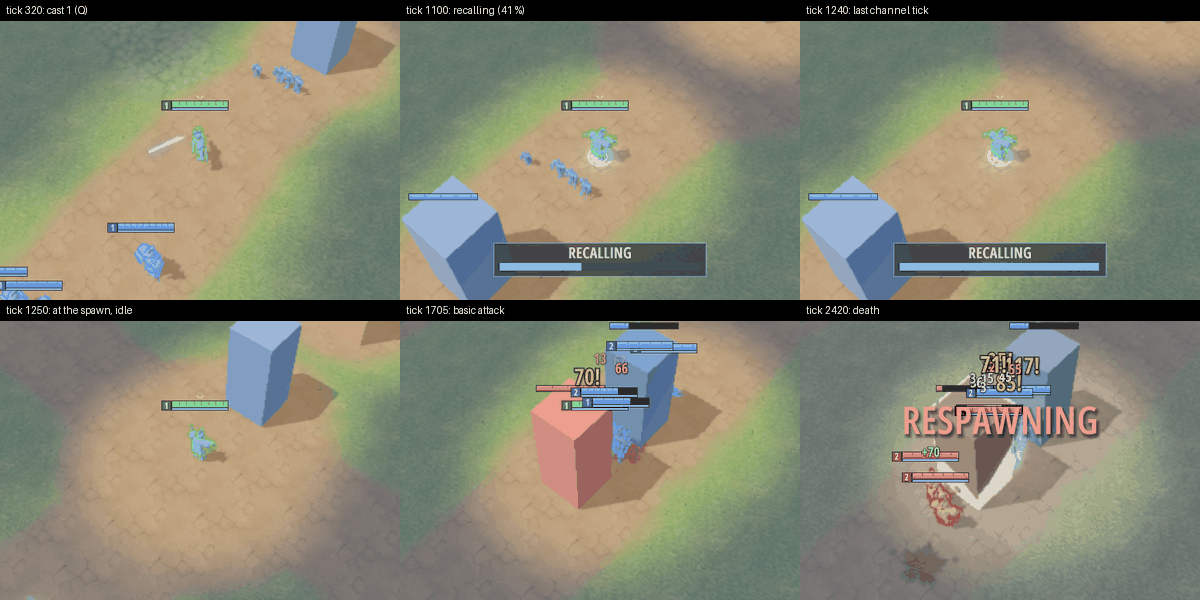
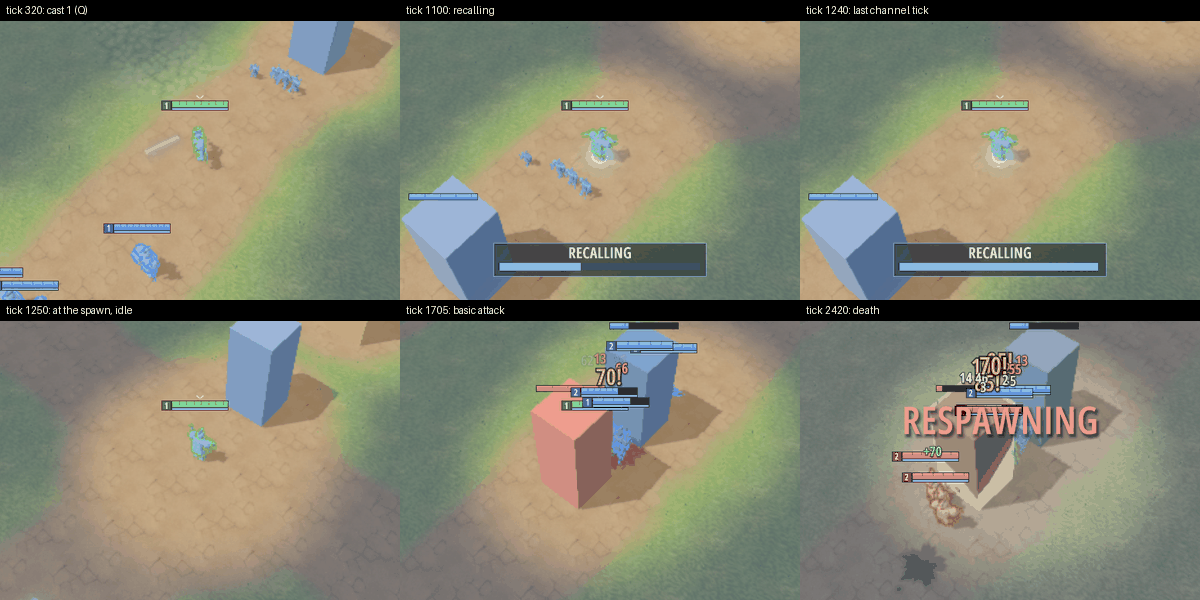
docs: recall review fixes, refreshed R4 exit run, 855 tests
Re-run the 150 ms / 30 ms / 5 % exit run on lavapipe after the fixes
(every recall edge received; same transitions), refresh the sequence
image, fog-of-war and bandwidth sections of perf/0024, and describe the
new rules in the changelog, ADR-0012, content authoring, playtest and
networking docs.

Claude-Session: https://claude.ai/code/session_0144jgh8Qz3C8gyNLqwtgRWj

diff --git a/docs/perf/0024-recall.md b/docs/perf/0024-recall.md
@@ -35,8 +35,11 @@ attack@1900,attack@2000" \
   moba-client      # plus the lavapipe VK_ICD_FILENAMES / VK_LAYER_PATH / LD_LIBRARY_PATH
 ```
 
-The proxy forwarded 5,392 packets and dropped 246 (4.6 %); the server ran 2,714 ticks. The
-client exited cleanly with no validation message.
+The proxy forwarded 5,375 packets and dropped 246 (4.4 %); the server ran 2,716 ticks. The
+client exited cleanly with no validation message. (This is the run after the review fixes:
+the fog-of-war rule for recall ends, flag-driven recall effects, flag-confirmed prediction
+and flag-based teleport snapping. The run before them, with the same orders, is described
+under "Lost events" below.)
 
 ## The player's hero
 `MOBA_ANIM_LOG` records each animated hero's action state and locomotion clip by render tick
@@ -46,60 +49,75 @@ the recall events the client received, stamped with the newest snapshot tick the
 | Tick | Order sent | Server event received | Animation (render tick) |
 |---:|---|---|---|
 | 0 | — | — | idle at the spawn |
-| 30 | move to (100, 128) | — | run from 38, idle at 245 |
-| 300 / 330 / 360 | Q / W / E at the hero's feet | (casts) | `cast1` 303 (also while running at 307), `cast2` 332, `cast3` 363 |
-| 600 | recall | started at (100, 128), tick 606 | `recall` loop from 608 |
-| 640 | move to (70, 128) | **cancelled**, tick 645 (an obeyed move) | the loop fades out under the run from 646; idle at 775 |
-| 900 | recall | started, tick 906 | `recall` from 908 |
+| 30 | move to (100, 128) | — | run from 37, idle at 244 |
+| 300 / 330 / 360 | Q / W / E at the hero's feet | (casts) | `cast1` 302 (also while running at 306), `cast2` 332, `cast3` 364 |
+| 600 | recall | started at (100, 128), tick 605 | `recall` loop from 607 |
+| 640 | move to (70, 128) | **cancelled**, tick 644 (an obeyed move) | the loop fades out under the run from 648; idle at 775 |
+| 900 | recall | started, tick 907 | `recall` from 909 |
 | 960 | stop | **cancelled**, tick 966 (stop) | idle from 973 |
-| 1000 | recall | started, tick 1005 | `recall` from 1007 |
-| — | — | *completion lost (5 % loss)* | the recall flag cleared: idle from 1252, at the spawn (52, 128) |
-| 1300 | move to (129, 128) beside the red tower | — | run from 1308, idle at 1638 |
+| 1000 | recall | started, tick 1006 | `recall` from 1008 |
+| — | — | **completed**, tick 1244: (70, 128) → (52, 128) | idle from 1252, at the spawn |
+| 1300 | move to (129, 128) beside the red tower | — | run from 1307, idle at 1639 |
 | 1700 | attack the nearest enemy | — | `attack` at 1703 and 1729 |
-| 1760 | recall | started, tick 1764 | `recall` from 1767 |
+| 1760 | recall | started, tick 1765 | `recall` from 1767 |
 | 1800 | attack | **cancelled**, tick 1805 (an order) | idle from 1813 |
-| — | — | (killed under the tower) | dead flag at 2405, `death` at 2410 |
+| — | — | (killed under the tower) | dead flag at 2406, `death` at 2411 |
 | — | — | (respawned) | idle at 2705 |
 
-So one skinned hero played idle, run, attack, three casts, death and recall — started three
-ways, cancelled by a move, a stop and an attack order, and completed — over a 150 ms / 30 ms /
-5 % link. The completed recall shows both protections working:
+So one skinned hero played idle, run, attack, three casts, death and recall — started four
+times, cancelled by a move, a stop and an attack order, and completed — over a 150 ms /
+30 ms / 5 % link. The completed recall shows both protections working:
 
 - **Teleport snap.** The hero went from (70, 128) to the spawn (52, 128), 18 units, in one
   tick. The view held it at the channel spot until that snapshot's tick and then drew it at
   the spawn: no slide, and no run or turn on arrival (the log goes straight from `recall` to
-  idle; before the fix in this change a 16-unit threshold missed this 18-unit recall and the
-  log showed a one-frame `run` there).
-- **Lost events.** In this run the completion event was one of the dropped packets'. The
-  recall flag cleared in the next snapshot and ended the loop on the same tick an event
-  would have. Two earlier runs with the same orders received it (`completed at (70.0, 128.0)
-  -> (52.0, 128.0)`, tick 1244 and 1245) and logged the same animation ticks within a tick.
+  idle). The snap comes from the recall flag clearing between two snapshots, not from the
+  distance: an earlier draft used a distance threshold, whose first value (16 units) missed
+  this 18-unit recall and showed a one-frame `run`, and which a content pack's long dash or
+  fast hero would have tripped.
+- **Lost events.** This run received every recall edge. In the run before the review fixes
+  (same orders, 246 of 5,638 packets dropped) the completion event was one of the dropped
+  ones: the recall flag cleared in the next snapshot and ended the loop on the same tick an
+  event would have (idle at 1252). The recall effect now follows the flag the same way, and
+  also stops when the hero dies or leaves the snapshot.
 
 ![Player hero sequence](../images/r4-recall-sequence.png)
 
-*Crops of the capture series (960×540 logical, Low): cast 1; recalling at 41 % with the HUD
+*Crops of the capture series (960×540 logical, Low): cast 1; recalling, with the HUD
 channel bar and the recall effect's ring and light at the feet; the last channel tick; idle
 at the spawn one tick after arrival; a basic attack beside the red tower; the death.*
 
 ## The other nine heroes
-Over the same run the nine bot heroes logged 523 `attack`, 60 `cast1`, 17 `cast2`, 26 `cast3`
-and 6 `death` transitions (the player's hero: 2, 2, 1, 1, 1 and 5 `recall`). Bots do not
-recall, so no other recall event reached the client.
+Over the same run the nine bot heroes started 476 `attack`, 48 `cast1`, 17 `cast2`, 19
+`cast3` and 6 `death` actions (the player's hero: 2, 1, 1, 1, 1 and 4 `recall`), counted as
+changes of each hero's action in the log. Bots do not recall, so no other recall event
+reached the client.
 
 ## Fog of war
 A client is told about an enemy's recall only while it sees that hero: the recall flag is
-part of the entity (filtered with it), a start or cancel needs the hero in the viewer's
-vision in that tick, and a completion also goes to viewers who saw it in their previous
-snapshot, because the hero teleports out of their vision in the tick it completes. Tests in
+part of the entity (filtered with it), a start needs the hero in the viewer's vision in that
+tick, and a cancel or completion needs it in the viewer's previous snapshot. Those report
+where the hero channelled, which the viewer saw only if it saw the hero standing there; in
+the tick a recall ends the hero may have teleported to its spawn, or a dash that cancelled it
+may have carried it out of the fog, so seeing it *now* is not enough. Tests in
 `crates/net/src/server/tests.rs`:
 
 - `an_enemy_recall_out_of_vision_is_never_reported`: a red hero recalls deep in its own
   half for the whole 8 s; blue's client gets no event, no flagged snapshot and never even a
   net id for it.
+- `a_recall_completed_in_hiding_is_not_reported_to_a_spawn_watcher`: the same, with blue's
+  hero standing beside red's spawn. Blue sees red arrive, but no event (an earlier draft of
+  this change sent it the completion, with the hidden channel spot in `x`/`y`).
+- `a_dash_out_of_fog_does_not_reveal_where_a_recall_was_cancelled`: red channels unseen 19
+  units from blue (vision 14) and dashes 7 units toward it, cancelling the recall at the
+  hidden spot and landing in view: blue sees red, but no cancel.
 - `a_visible_enemy_recall_is_reported_from_start_to_completion`: one beside blue's hero is
   flagged in 239 of the 240 channel snapshots (not the arrival's) and reported as started
   (`aux` 240) and completed (`x2`/`y2` = red's spawn), after which it is out of vision.
-- `recall_start_and_cancel_need_the_hero_in_view`: the filter rules above.
+- `a_recall_start_needs_the_hero_in_view_and_its_end_needs_it_seen_before`: the rules above.
+
+Before the fix both new tests failed: blue received `EVENT_RECALL { value: 2, x: 3200,
+y: 960 }` (the hidden spot (200, 60), quantized) and a cancel at the pre-dash spot.
 
 ## Bandwidth
 Recall costs nothing unless someone recalls: the flag is a spare bit of the existing entity
@@ -109,8 +127,8 @@ this branch (150 ms RTT, 5 % loss, 30 ms jitter; bots do not recall):
 
 | Run | v41 down/client (perf/0009) | v42 down/client | v42 server sent |
 |---|---:|---:|---:|
-| `soak --seconds 60` (10 players) | 5.0–6.2 KiB/s | 5.1–6.2 KiB/s | 3,665 KiB |
-| `soak --seconds 120 --clients 2` (8 bot heroes fight) | 7.2–7.3 KiB/s | 7.2–7.3 KiB/s | 1,844 KiB |
+| `soak --seconds 60` (10 players) | 5.0–6.2 KiB/s | 5.0–6.2 KiB/s | 3,714 KiB |
+| `soak --seconds 120 --clients 2` (8 bot heroes fight) | 7.2–7.3 KiB/s | 7.2 KiB/s | 1,848 KiB |
 
 Upstream is 1.16–1.18 KiB/s (unchanged). A player recalling adds one event per edge to the
 snapshots that carry it: under 0.1 KiB per recall.

diff --git a/CHANGELOG.md b/CHANGELOG.md
@@ -110,20 +110,30 @@ the semver check):
 - **Recall in the client (AAA roadmap R4 exit, ADR-0012 amendment;
   [perf/0024](docs/perf/0024-recall.md)):**
   - **Controls:** **B** recalls (`controls.recall`); the shop moves to **P** (`controls.shop`).
-    A settings file saved before recall binds the shop to `B`: it keeps that key and recall is
-    left unbound with a warning until `controls.recall` is set. New `Key::P`.
+    A settings file saved before recall (no `recall` key) with the old `shop = "B"` is
+    migrated to shop P, recall B, with a note on stderr; one with another shop key keeps it.
+    A recall key another action (or the camera, item, shop or page keys) uses leaves recall
+    unbound, with a warning. New `Key::P`.
+  - **Prediction:** pressing recall sends the order only (none when the pack disables recall
+    or the hero is dead); the predicted hero stops when a snapshot's recall flag confirms the
+    channel, unless another order was given since. A recall that never starts (a stun the
+    client is not told about, a lost packet) no longer stops the drawn hero while the
+    server's walks on.
   - **Animation:** `EVENT_RECALL` starts the set's `recall` loop on its snapshot tick and a
     cancel or completion fades it out; the recall flag starts or ends it when those events
-    are lost. Interpolation no longer slides a hero across the map on a teleport: a step
-    longer than 10 world units plus 0.5 per tick between two snapshots
-    (`moba_net::interpolation::is_teleport`) holds the old position until the later
-    snapshot's tick and then snaps (recalls and respawns; dashes still interpolate), and the
-    hero's facing and run speed ignore that step. The local preview and replays map the
+    are lost. Interpolation no longer slides a hero across the map on a teleport: between two
+    snapshots where a living hero's recall flag cleared or a dead hero came back alive
+    (`moba_net::interpolation::is_teleport`, `Interpolator::teleported_between`) it holds the
+    old position until the later snapshot's tick and then snaps. It decides from those flags,
+    not a distance, so a pack's long dashes or fast heroes still interpolate. The hero's
+    facing and run speed ignore that step. The local preview and replays map the
     recall events too.
   - **VFX:** a `recall` default binding (`[defaults] recall = "recall"` in
     `vfx/bindings.toml`) plays `content/vfx/recall.toml` at the hero for the channel
     (`event_duration`): a contracting ground ring, a rising column of motes and a soft light,
-    with no telegraph styling. A cancel or completion stops it emitting.
+    with no telegraph styling. A cancel or completion stops it emitting, and so do the hero's
+    death and its recall flag clearing (or the hero leaving the snapshot); the flag also
+    starts it when the start event was lost. One channel plays one effect.
   - **HUD:** a "RECALLING" channel bar above the hero panel while the local hero channels.
   - **Evidence runs:** `MOBA_DEMO_ORDERS=<order>@<tick>,...` (`recall`, `stop`, `attack`,
     `q`/`w`/`e`, `move:<x>:<y>`) scripts the local player; such runs log every recall event
@@ -964,12 +974,15 @@ the semver check):
     entity, and it survives lost events.
   - `EVENT_RECALL` (9), a full 26-byte event: `value` is `RECALL_STARTED` (`aux` = the channel
     length in ticks), `RECALL_CANCELLED` or `RECALL_COMPLETED` (`x2`/`y2` = the spawn it
-    arrived at); `x`/`y` is where the hero channelled. A start or a cancel is sent only to
-    viewers who see the hero in that tick; a completion also to those who saw it in their
-    previous snapshot (the hero teleports out of their vision in the tick it completes), so an
-    enemy recalling out of vision is never reported. Priority: with casts and zones.
+    arrived at); `x`/`y` is where the hero channelled. A start is sent only to viewers who see
+    the hero in that tick; a cancel or completion only to viewers who saw it in their previous
+    snapshot (where it stood still on `x`/`y`), whether or not they see it now: it may have
+    teleported to its spawn, or a dash that cancelled it may have carried it out of the fog,
+    in that tick. An enemy recalling out of vision is never reported, not even to a viewer
+    watching its spawn. Priority: with casts and zones.
   - `WireRules::recall_ticks` (u32) carries the content rule in the catalogue.
-- **Content:** `[rules] recall_ticks` (0..=3600, default 240). It is hashed and signed only
+- **Content:** `[rules] recall_ticks` (0..=900, i.e. up to 30 s, the longest effect the
+  client plays; default 240). It is hashed and signed only
   when it is not the default, so every existing pack keeps its content hash and attestation.
 - **Protocol v41** (not wire-compatible with v40). Snapshots carry **`EVENT_ATTACK`** (8), one
   per visible basic attack (R4b-1): `source`/`target` net ids and hero slots, `team`,

diff --git a/docs/adr/0012-animation-runtime.md b/docs/adr/0012-animation-runtime.md
@@ -332,18 +332,27 @@ read by the driver:
   ended the loop on the same tick.
 
 Fog of war comes from the server: the flag is part of the entity (only sent while the viewer
-sees the hero), a start or cancel is sent only to viewers who see the hero, and a completion
-also to those who saw it in their previous snapshot (it teleports out of their vision in the
-tick it completes).
+sees the hero), a start is sent only to viewers who see the hero, and a cancel or completion
+only to those who saw it in their previous snapshot, standing on the channel spot the event
+reports (seeing it now is not enough: at its spawn, or where a dash put it, it would reveal
+a spot the viewer never saw).
+
+The recall effect (ADR-0013) follows the same flag: it starts when the start event was lost,
+and stops when the flag clears, the hero leaves the snapshot or dies (a killer never gets the
+cancel of the hero it killed), as well as on the events.
 
 **Teleports.** The interpolator used to lerp every step, so a recall (or a respawn) slid the
 hero across the map for one tick and the driver saw a run speed and a facing towards the
-spawn. `moba_net::interpolation::is_teleport` now treats a step longer than 10 world units
-plus 0.5 per tick between the two snapshots as a teleport: the earlier position holds until
-the later snapshot's tick, then the hero appears at the new one. Dashes (≤ 8 units in a tick)
-still interpolate. The network scene ignores such a step for the hero's speed and facing, so
+spawn. `moba_net::interpolation::is_teleport` now treats the step between two snapshots as a
+teleport when a living hero's recall flag cleared (a completion; a cancel moves it at most a
+tick's walk or a dash) or a dead hero came back alive: the earlier position holds until the
+later snapshot's tick, then the hero appears at the new one. It reads those replicated
+signals rather than a distance (an earlier draft snapped steps over 10 units plus 0.5 per
+tick), so a content pack's long dash or fast hero still interpolates. The network scene ignores such a step for the hero's speed and facing, so
 the recall loop is not cut short by `interrupt_on_move` and the hero does not turn on
-arrival. The own hero's prediction already snapped corrections over 8 units.
+arrival. The own hero's prediction already snapped corrections over 8 units; it stops for a
+recall only when the flag confirms the channel, so a recall that never starts does not
+rubber-band it.
 
 The local preview and replays map `SimEvent::RecallStarted` / `RecallEnded` to the same
 events, and the flag comes from `ObservedUnit::recalling` through `NetEntity::from_observed`.

diff --git a/docs/content-authoring.md b/docs/content-authoring.md
@@ -222,7 +222,7 @@ shared_xp_percent = 130
 structure_heroes_first = false
 nexus_win = true
 score_limit = 0
-recall_ticks = 240            # recall channel, ticks (0..=3600; 0 disables recall)
+recall_ticks = 240            # recall channel, ticks (0..=900; 0 disables recall)
 
 [rules.rewards.melee_minion]
 xp = 32
@@ -296,8 +296,8 @@ Every hashed `[rules]` field is carried in the handshake (since protocol **v38**
 `nexus_win`, `score_limit`) and the recall channel (`recall_ticks`, since **v42**) reach a
 joining client, so its rules match the server's instead of falling back to defaults.
 `recall_ticks` is the channel a recall (**B**) runs before the hero teleports to its spawn;
-it is cancelled by moving, attacking, stopping, casting, taking damage, a stun or death. It is
-hashed and signed only when it differs from 240, so packs written before recall keep their
+it is cancelled by moving, attacking, stopping, casting, taking damage, a stun or death. At
+most 900 ticks (30 s), the longest the client's recall effect plays. It is hashed and signed only when it differs from 240, so packs written before recall keep their
 content hash and attestation. `content/economy-override.toml` is the regression pack;
 `cargo test -p moba-net --test content` joins a real UDP client against it and compares the
 client's rules and content hash with the server's. Adding a `RulesSpec` field fails to compile
@@ -985,7 +985,7 @@ hero_death = "hero-death"
 minion_death = "minion-death"
 structure_destroyed = "collapse"  # a tower or nexus
 attack = "attack-hit"             # a basic attack lands (at the target)
-recall = "recall"                 # a hero channels a recall, at the hero, until it ends
+recall = "recall"                 # a hero channels a recall, at the hero, until it ends (its recall flag clears, or it dies)
 
 [[abilities]]                     # at most 128
 name = "Arc Bolt"

diff --git a/docs/tasks/0005-networking.md b/docs/tasks/0005-networking.md
@@ -27,10 +27,11 @@ inside the 20/40 KB/s downstream and 4 KB/s upstream budgets.
     `UseItem` arm, tag 7, it had been missing), `ENTITY_FLAG_RECALL` (entity flag bit 7) while
     a hero channels, `EVENT_RECALL` (9; `value` `RECALL_STARTED`/`RECALL_CANCELLED`/
     `RECALL_COMPLETED`, `aux` the channel length on a start, `x2`/`y2` the arrival on a
-    completion) and `WireRules::recall_ticks`. A start or cancel needs the hero in the
-    viewer's vision now; a completion also goes to viewers who saw it in their previous
-    snapshot, since it teleports out of their vision that tick. Interpolation snaps a step
-    longer than 10 units plus 0.5 per tick (`interpolation::is_teleport`) instead of lerping it.
+    completion) and `WireRules::recall_ticks`. A start needs the hero in the viewer's vision
+    now; a cancel or completion needs it in the viewer's previous snapshot (on the reported
+    channel spot), since it may teleport or dash out of vision that tick. Interpolation snaps
+    when the recall flag clears or a dead hero respawns (`interpolation::is_teleport`) instead
+    of lerping.
 - **Transport**: non-blocking UDP, application-level fragmentation/reassembly (1200-byte
   datagrams), ack tracker.
 - **Server**: handshake and slot assignment, session tokens, input sequencing, bot fill for

diff --git a/README.md b/README.md
@@ -25,7 +25,7 @@ spectator camera, status effects and runtime-content examples.
 | Networking | Custom UDP protocol (v42): handshake, intent input, fragmentation, server-authoritative delta snapshots, visibility filtering, prediction/interpolation, reconnect, spectators, between-match catalogue updates and content attestation |
 | Client | Vulkan 1.3 renderer (render graph, HDR target, AgX tonemap, quality tiers, per-pass GPU timing, compute GPU-particle VFX bound to presentation events) with instanced units/animated hero rig, map themes, wall LOS/fog, textured HUD/icons, MSDF text, 3D hero portraits and a baked minimap rendered to texture, settings/remapping/UI scale, procedural audio, paginated shop, scoreboard and free-pan spectator camera |
 | Server | Headless authoritative runner; bots fill empty slots; bandwidth and tick statistics |
-| Quality | Fixed-point determinism tests, ECS/job benchmarks, Miri/Loom, cargo-fuzz, layered architecture, 850 tests, golden-image CI and a 5-minute 10-client soak |
+| Quality | Fixed-point determinism tests, ECS/job benchmarks, Miri/Loom, cargo-fuzz, layered architecture, 855 tests, golden-image CI and a 5-minute 10-client soak |
 
 ## Quick start
 

diff --git a/AGENTS.md b/AGENTS.md
@@ -25,7 +25,7 @@ for embedding and extension. This is a **pre-1.0 preview**, not a finished comme
 | Content schema | runtime TOML, hashed; optional Ed25519 attestation | `crates/game/src/content/` (`schema.rs`, `hash.rs`) |
 | Golden state hash | `0x59e062c6037e76ac` | `tests/golden-state-hash.txt` |
 | Golden image | 64×36 fingerprints (default scene, networked skinned capture, VAT minions, R3a map overview and horizon, R6 Ultra MSAA and Low at render scale 0.75, R2b ember close-up, R3b river on the default tier, Low and Ultra (through the reeds), R3b teamfight decals) and the R2b outline occlusion probe, lavapipe, validation required | `.github/workflows/render-golden.yml` |
-| Tests | **850 passed**, 3 ignored | `cargo test --workspace --locked` |
+| Tests | **855 passed**, 3 ignored | `cargo test --workspace --locked` |
 
 Re-run the commands before quoting these values; update this table when a contract changes.
 

diff --git a/docs/agents.md b/docs/agents.md
@@ -15,7 +15,7 @@ are in [`.claude/agents/`](../.claude/agents), and the short GitHub Copilot entr
 | Replay format | **v5**, simulation logic **v9** | `crates/sim/src/replay.rs` |
 | Content | runtime TOML, hashed; signed packs optional | `crates/game/src/content/` |
 | Toolchain | Rust MSRV **1.88**, Vulkan **1.3** minimum | `Cargo.toml`, ADR-0002 |
-| Tests | **850 passed**, 3 ignored | `cargo test --workspace --locked` |
+| Tests | **855 passed**, 3 ignored | `cargo test --workspace --locked` |
 | Golden state hash | `0x59e062c6037e76ac` | `tests/golden-state-hash.txt` |
 | Golden image | 64×36 fingerprints (default, networked, VAT, map overview + horizon, Ultra MSAA, Low at 0.75, ember) + outline occlusion probe, lavapipe + validation | `.github/workflows/render-golden.yml` |
 

diff --git a/CLAUDE.md b/CLAUDE.md
@@ -6,7 +6,7 @@ commands, workflow, blockers). The operational runbook is **[docs/agents.md](doc
 is in `agents.local.md` (gitignored; template at `agents.local.example.md`).
 
 Current contract: workspace **0.4.0**, wire protocol **v42**, replay **v5**, simulation logic
-**v9**, **850 tests**; Rust MSRV 1.88, Vulkan 1.3 minimum. Use `scripts/agent-verify.sh` (add `--full` for release/features/Loom/
+**v9**, **855 tests**; Rust MSRV 1.88, Vulkan 1.3 minimum. Use `scripts/agent-verify.sh` (add `--full` for release/features/Loom/
 soak/fuzz) as the default gate; `just` may not be installed.
 
 Claude-specific hooks and reviewer definitions live in `.claude/`:

diff --git a/docs/playtest.md b/docs/playtest.md
@@ -174,7 +174,7 @@ without protection.
 
 Controls: right-click moves, left-click attacks, **Q/W/E** cast at the cursor, **Space**
 stops, **B** recalls (8 s; moving, attacking, casting or taking damage cancels it), **P**
-opens the shop, **Tab** shows the scoreboard, **R** readies up, **F5** votes to
+opens the shop (an older settings file with the shop on B is moved to P, with a note), **Tab** shows the scoreboard, **R** readies up, **F5** votes to
 surrender and **Escape** quits. Quit with Escape, not by killing the process, or the frame log
 isn't written. The HUD's top-left panel shows `PING n MS`; that is the RTT to report.
 

diff --git a/docs/status.md b/docs/status.md
@@ -49,7 +49,7 @@ an external security review, real Windows/macOS GPU runs and crates.io ownership
 
 ## Verification evidence
 
-- `cargo test --workspace --locked`: **850 passed**, 0 failed, 3 ignored.
+- `cargo test --workspace --locked`: **855 passed**, 0 failed, 3 ignored.
 - `cargo test --workspace --release --locked`: passes (same suite; CI job `release tests + doctests`).
 - `cargo fmt --all --check`; clippy `--workspace --all-targets -- -D warnings`; rustdoc with
   `RUSTDOCFLAGS="-D warnings"` are clean.
